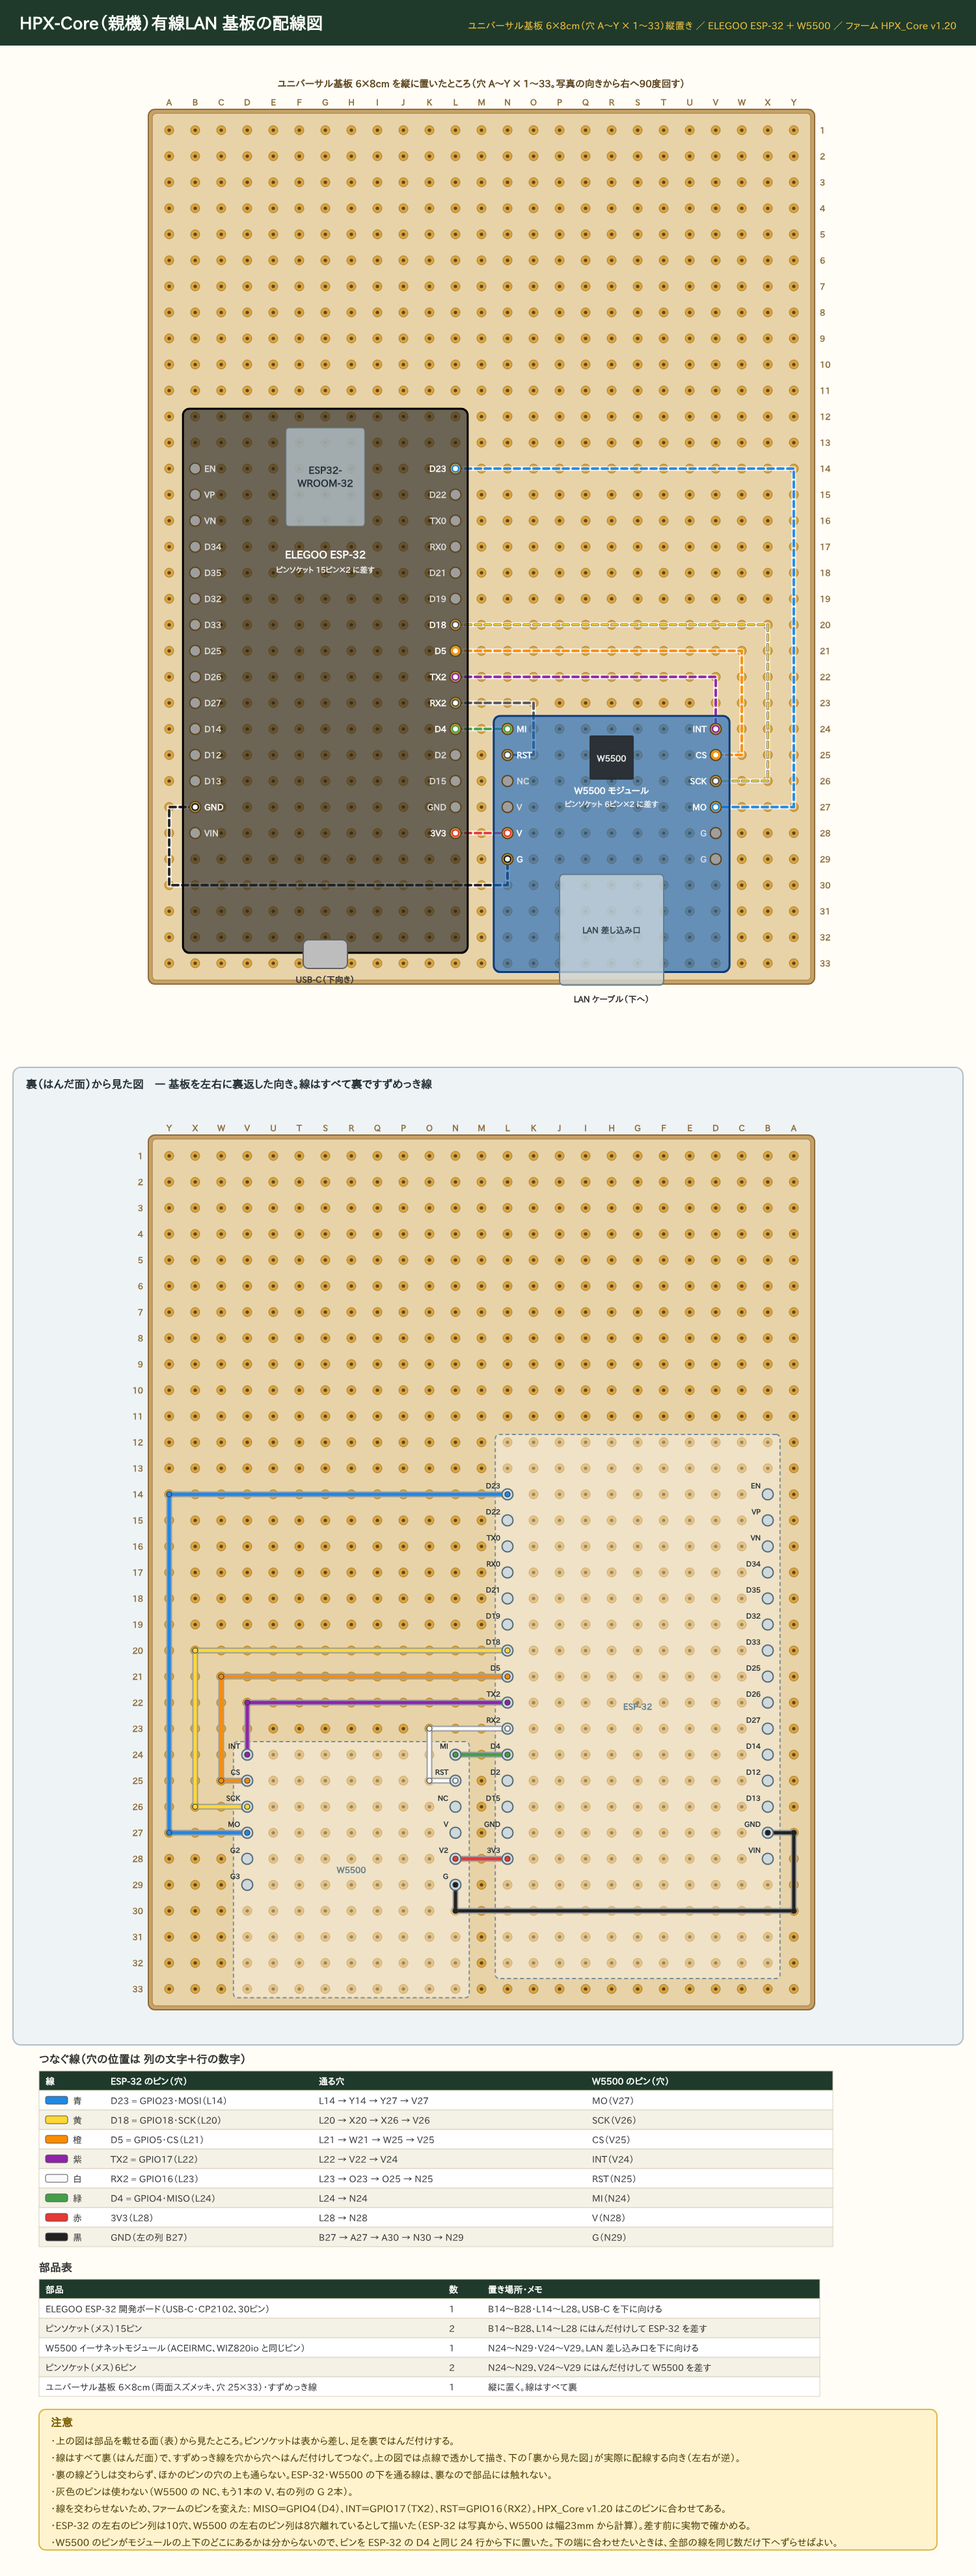
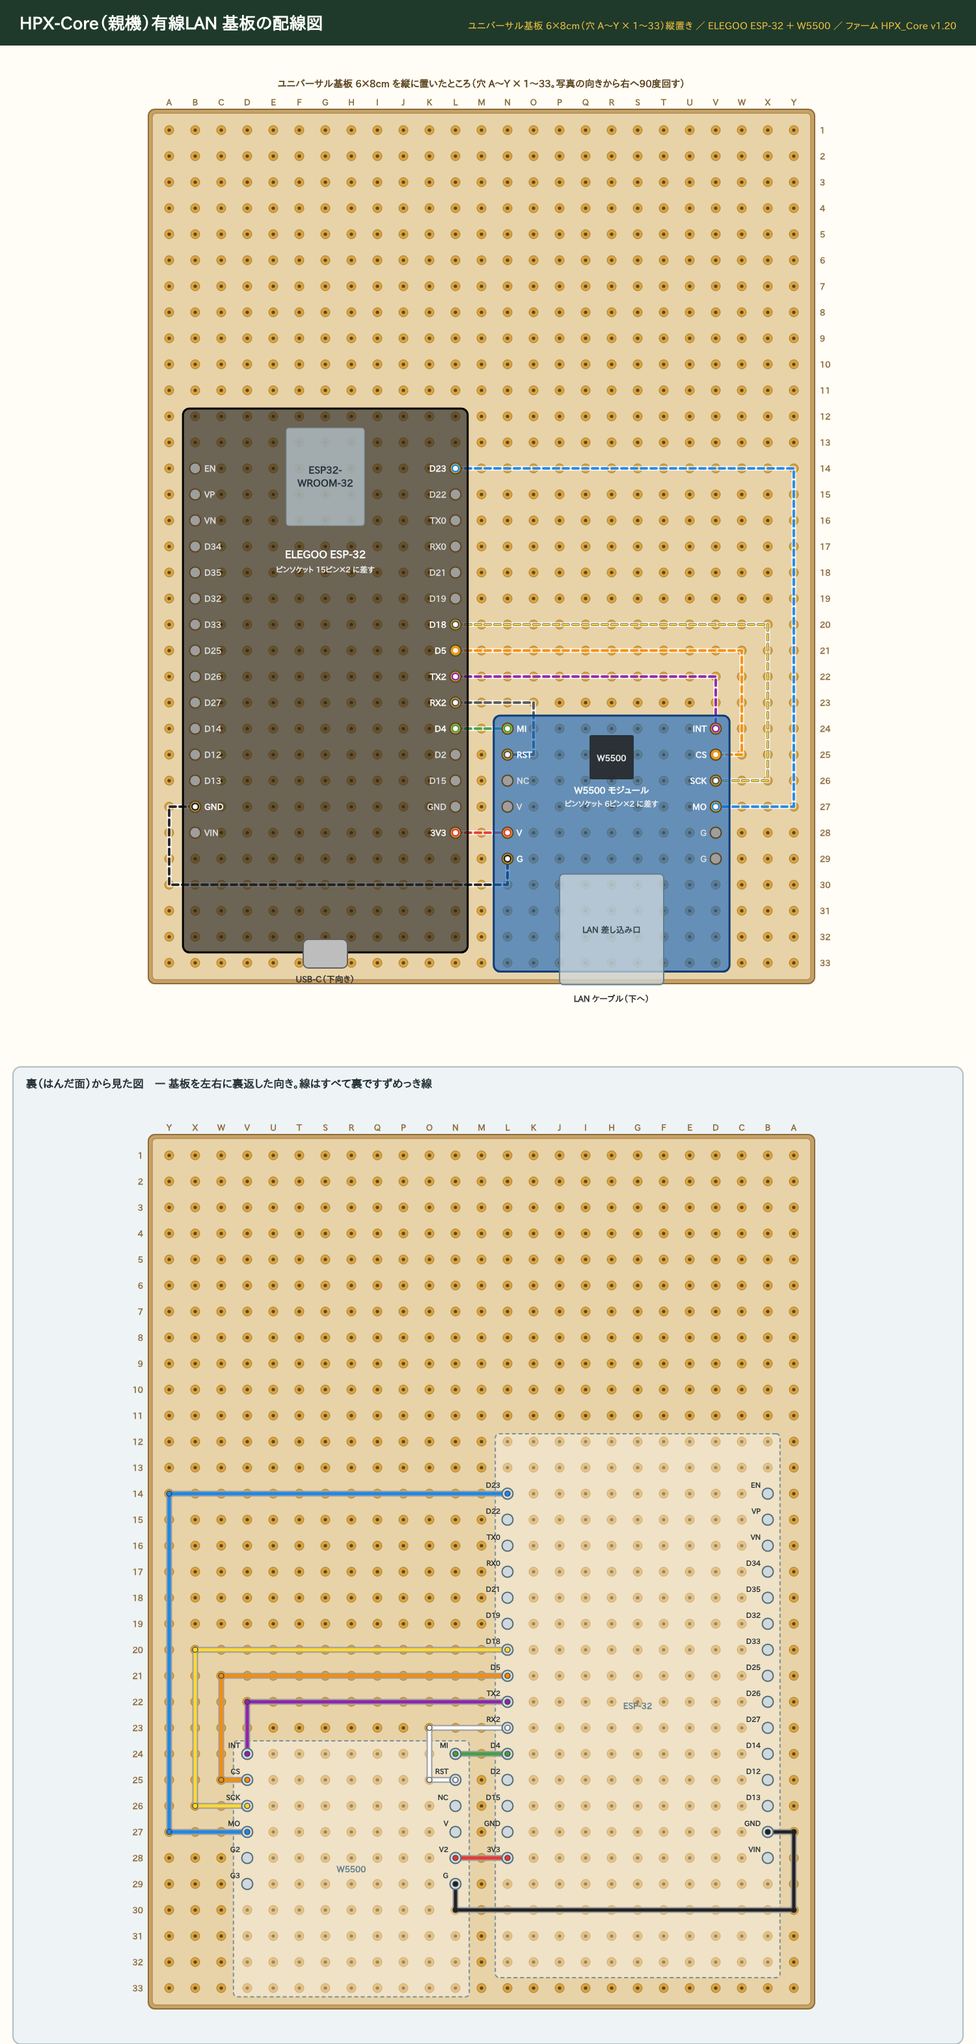
HPX-Core 有線LAN版・防水Wi-Fi－USB給電版: サイトの配線図は図だけにし、つなぐ線・部品表・注意は HTML で出す
Claude-Session: https://claude.ai/code/session_01LCC9B5n55eK33hdr6CPpnq

diff --git a/site/device-core.html b/site/device-core.html
@@ -280,6 +280,13 @@
         <figcaption><b>防水Wi-Fi－USB給電版の配線図</b>ケースの中で Olimex ESP32-DEVKIT-LIPO の micro USB と防水USBカプラーを USB-C to MicroUSB ケーブルでつなぎ、外から USB 電源をつなぎます。外付けの配線はありません。</figcaption>
         <a href="img/wiring/HPX-Core_wiring.png" target="_blank" rel="noopener"><img src="img/wiring/HPX-Core_wiring.png" alt="HPX-Core 防水Wi-Fi－USB給電版の配線図" loading="lazy"></a>
       </figure>
+      <div data-variant="core_wp">
+      <div class="wtab"><h3>部品の使いどころ</h3><div class="scroll"><table>
+        <thead><tr><th>部品</th><th>数</th><th>使うところ・メモ</th></tr></thead>
+        <tbody><tr><td>ESP32 開発ボード Olimex ESP32-DEVKIT-LIPO</td><td>1</td><td>本体（親機）。差し込み口は micro USB</td></tr><tr><td>USB-C to MicroUSB ケーブル 15cm</td><td>1</td><td>ケースの中で、防水USBカプラーと Olimex をつなぐ</td></tr><tr><td>防水USBカプラー（USB Type-C メス-メス）</td><td>1</td><td>ケースの壁に取り付ける。外から USB 電源をつなぐ</td></tr></tbody>
+      </table></div></div>
+      <div class="wnote"><h3>注意</h3><ul><li>HPX-Core には外付けの部品も配線もありません。防水USBカプラーから USB 電源をつなぐだけで動きます。</li><li>基板の「BAT」コネクタは充電式リチウムイオン電池用。この版では何もつながない。</li><li>管理画面の動作モードは「常時稼働（商用電源）」のまま使う。</li><li>Olimex には BOOT ボタンと GPIO2 の LED がありません。工場出荷リセット（BOOT 長押し）は、GPIO0 のピンを GND に5秒つないで代わりにする（未確認）。</li></ul></div>
+      </div>
       <figure class="wiring" data-variant="core_bat">
         <figcaption><b>防水Wi-Fi－電池版の配線図</b>ケース用基板 PCB36-47 に Olimex ESP32-DEVKIT-LIPO をピンソケットで差し、ケース WH145-25-M3 の電池ボックス (単三リチウム3本、約4.5〜5.4V) の線を Olimex の 5V 端子と GND へつなぎます (表と裏、線は裏の2本だけ)。基板の「BAT」コネクタは充電式リチウムイオン電池用なので、乾電池はつながないでください。管理画面の動作モードは「ディープスリープ」にします。</figcaption>
         <a href="img/wiring/HPX-Core_BAT_pcb.png" target="_blank" rel="noopener"><img src="img/wiring/HPX-Core_BAT_pcb.png" alt="HPX-Core 防水Wi-Fi－電池版の配線図" loading="lazy"></a>

diff --git a/hardware/wiring/gen_wiring.py b/hardware/wiring/gen_wiring.py
@@ -421,19 +421,29 @@ s.rect(830, 270, 360, 84, "#ffffff", "#c9c2a8", 10, 2)
 s.text(850, 305, "Wi-Fi ルーター → サーバー", 16, weight="bold")
 s.text(850, 332, "Wi-Fi で送る（電線なし）", 14, fill="#666")
 s.add(f'<path d="M{cx+250},{cy+150} L825,320" stroke="#43a047" stroke-width="2.5" stroke-dasharray="8 7" fill="none"/>')
-y = table(s, 60, 860, [
+CORE_ROWS = [
     ["部品", "数", "使うところ・メモ"],
     ["ESP32 開発ボード Olimex ESP32-DEVKIT-LIPO", "1", "本体（親機）。差し込み口は micro USB"],
     ["USB-C to MicroUSB ケーブル 15cm", "1", "ケースの中で、防水USBカプラーと Olimex をつなぐ"],
     ["防水USBカプラー（USB Type-C メス-メス）", "1", "ケースの壁に取り付ける。外から USB 電源をつなぐ"],
-], [560, 50, 550], "部品表")
-notes(s, 60, y + 20, [
+]
+y = table(s, 60, 860, CORE_ROWS, [560, 50, 550], "部品表")
+CORE_NOTES = [
     "・HPX-Core には外付けの部品も配線もありません。防水USBカプラーから USB 電源をつなぐだけで動きます。",
     "・基板の「BAT」コネクタは充電式リチウムイオン電池用。この版では何もつながない。",
     "・管理画面の動作モードは「常時稼働（商用電源）」のまま使う。",
     "・Olimex には BOOT ボタンと GPIO2 の LED がありません。工場出荷リセット（BOOT 長押し）は、GPIO0 のピンを GND に5秒つないで代わりにする（未確認）。",
-])
+]
+notes(s, 60, y + 20, CORE_NOTES)
 s.save("HPX-Core_wiring.svg")
+# ウェブサイト用 (TARO 2026-11-08): 図だけの SVG (部品表の上で切る) と、部品表・注意の文字 (JSON)。表・注意はページに HTML で出す
+_full = open(os.path.join(OUT, "HPX-Core_wiring.svg"), encoding="utf-8").read()
+_cut = 820
+open(os.path.join(OUT, "HPX-Core_wiring_fig.svg"), "w", encoding="utf-8").write(
+    _full.replace(f'width="{s.w}" height="{s.h}" viewBox="0 0 {s.w} {s.h}"', f'width="{s.w}" height="{_cut}" viewBox="0 0 {s.w} {_cut}"', 1))
+import json
+json.dump({"tables": [{"head": "部品の使いどころ", "rows": CORE_ROWS}], "notes": [n.lstrip("・") for n in CORE_NOTES]},
+          open(os.path.join(OUT, "HPX-Core_wiring.json"), "w", encoding="utf-8"), ensure_ascii=False, indent=1)
 print("ok")
 
 # ------------------------------------------------------------------ HPX-Core 有線LAN (W5500)
